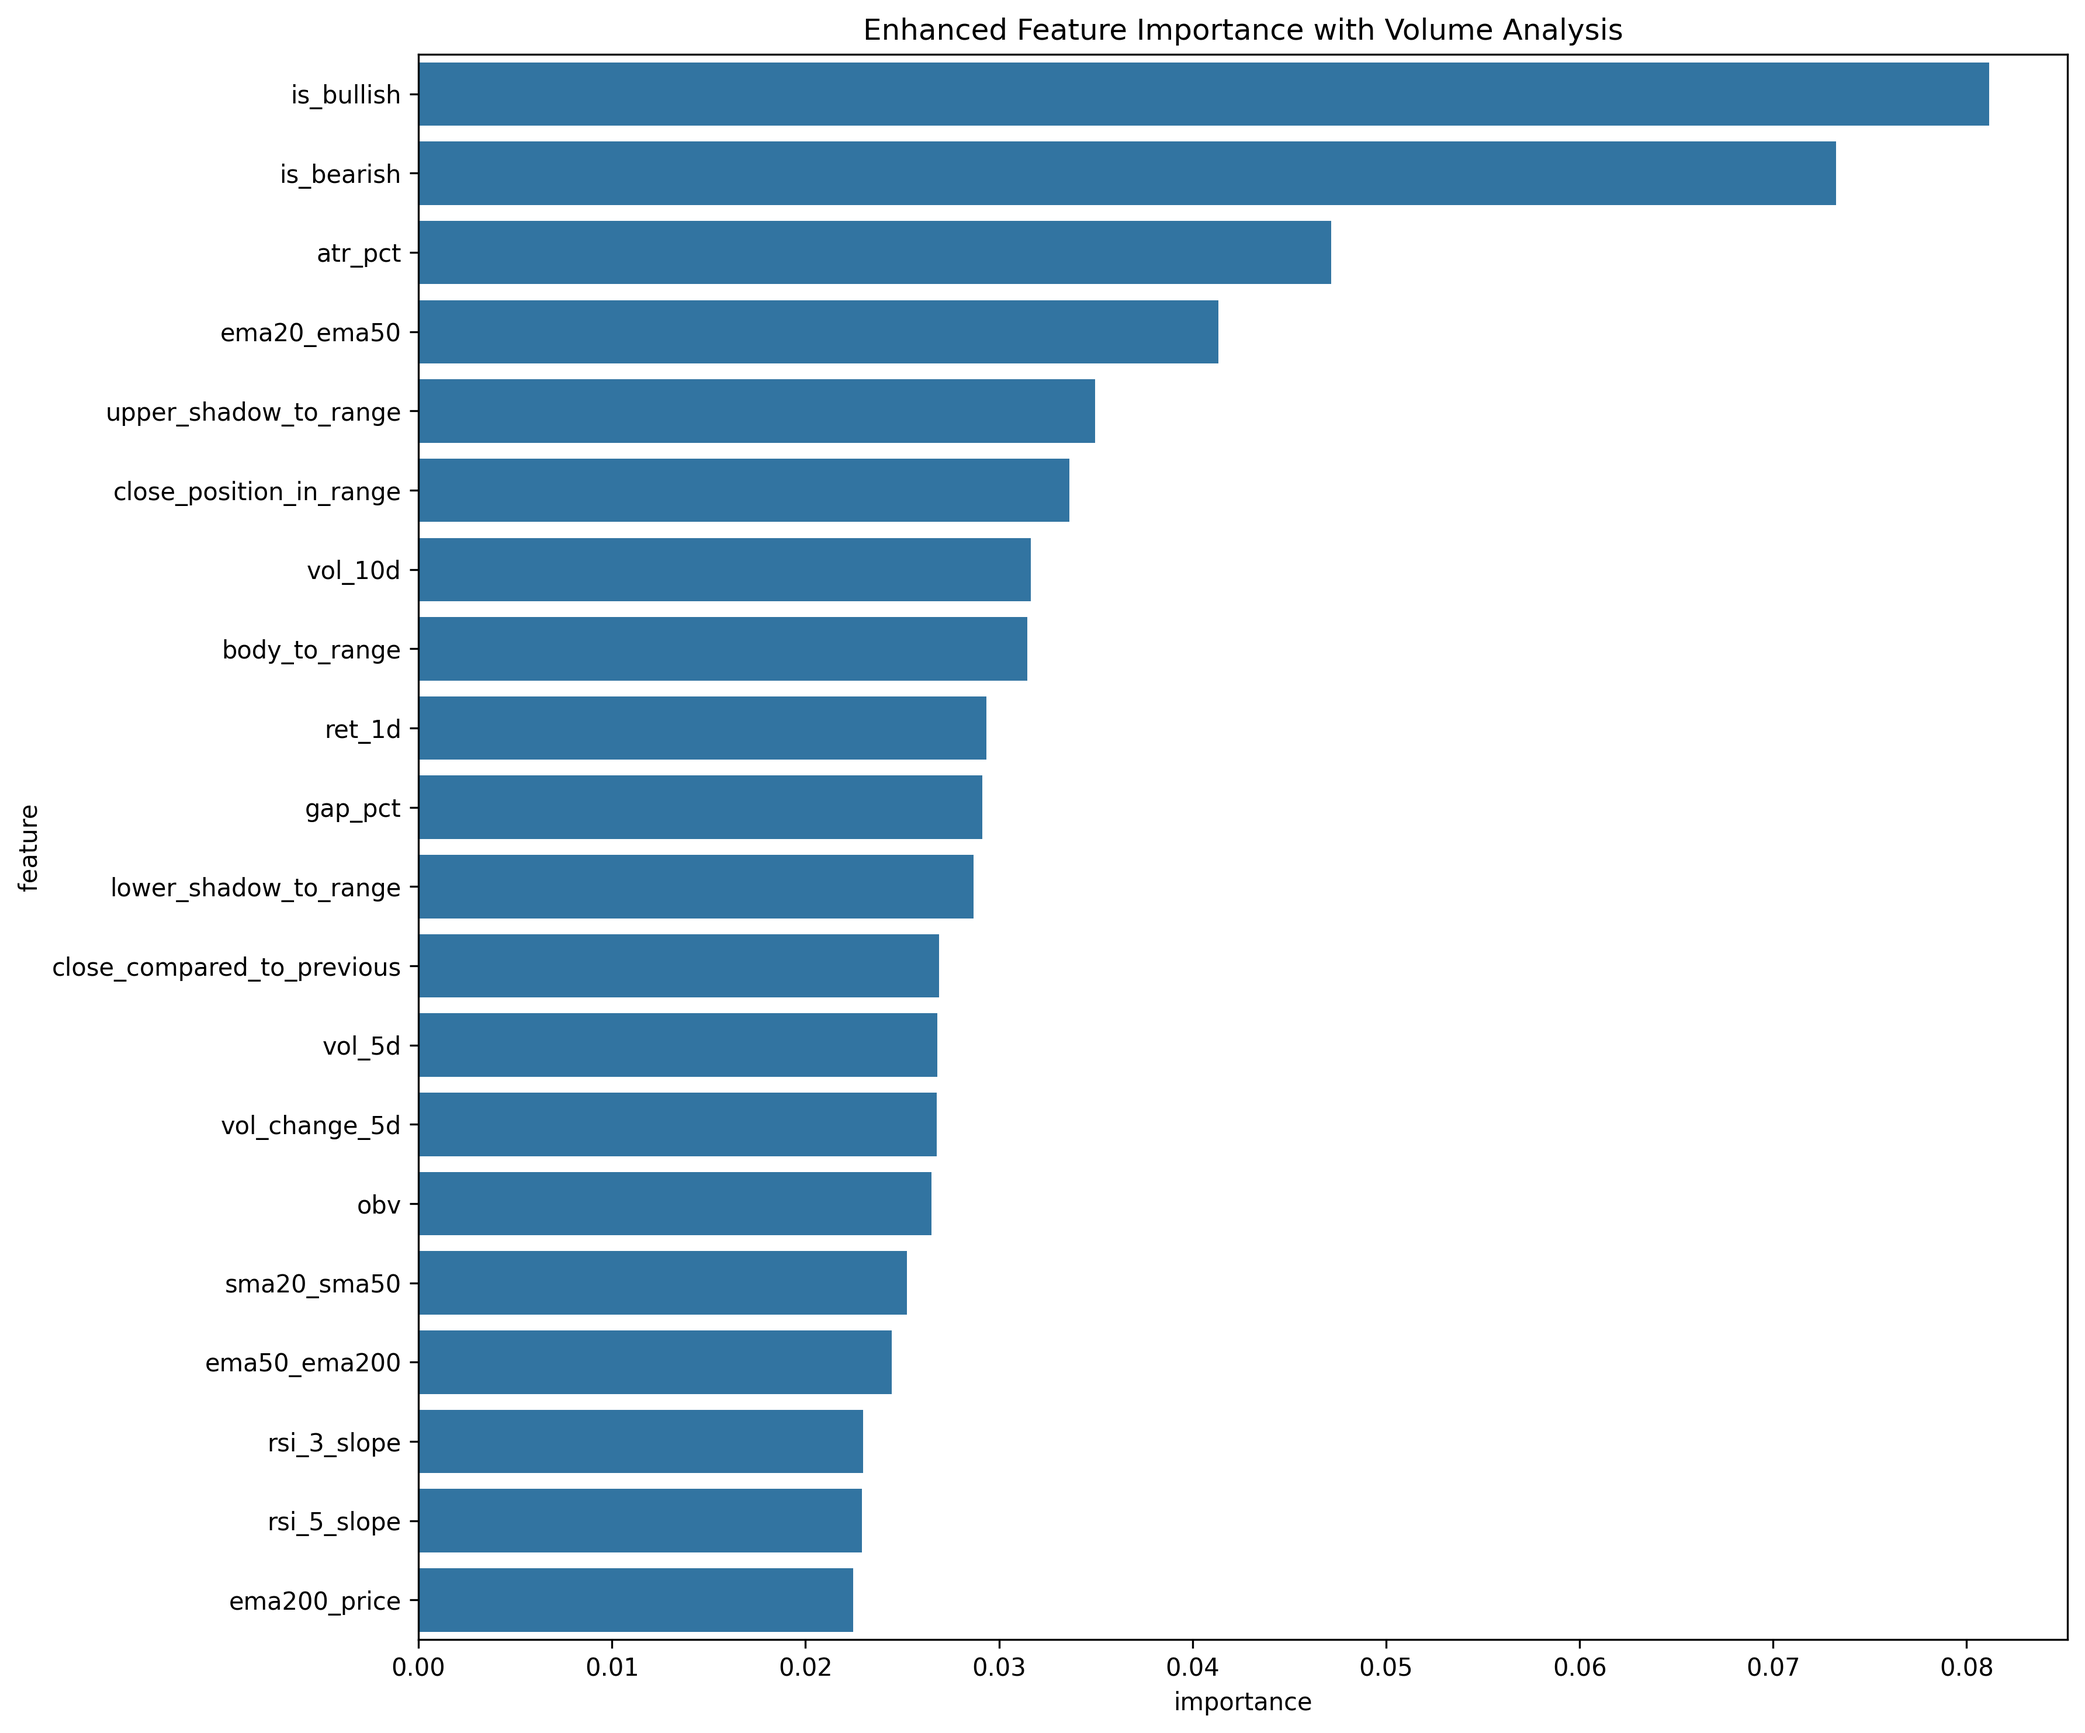
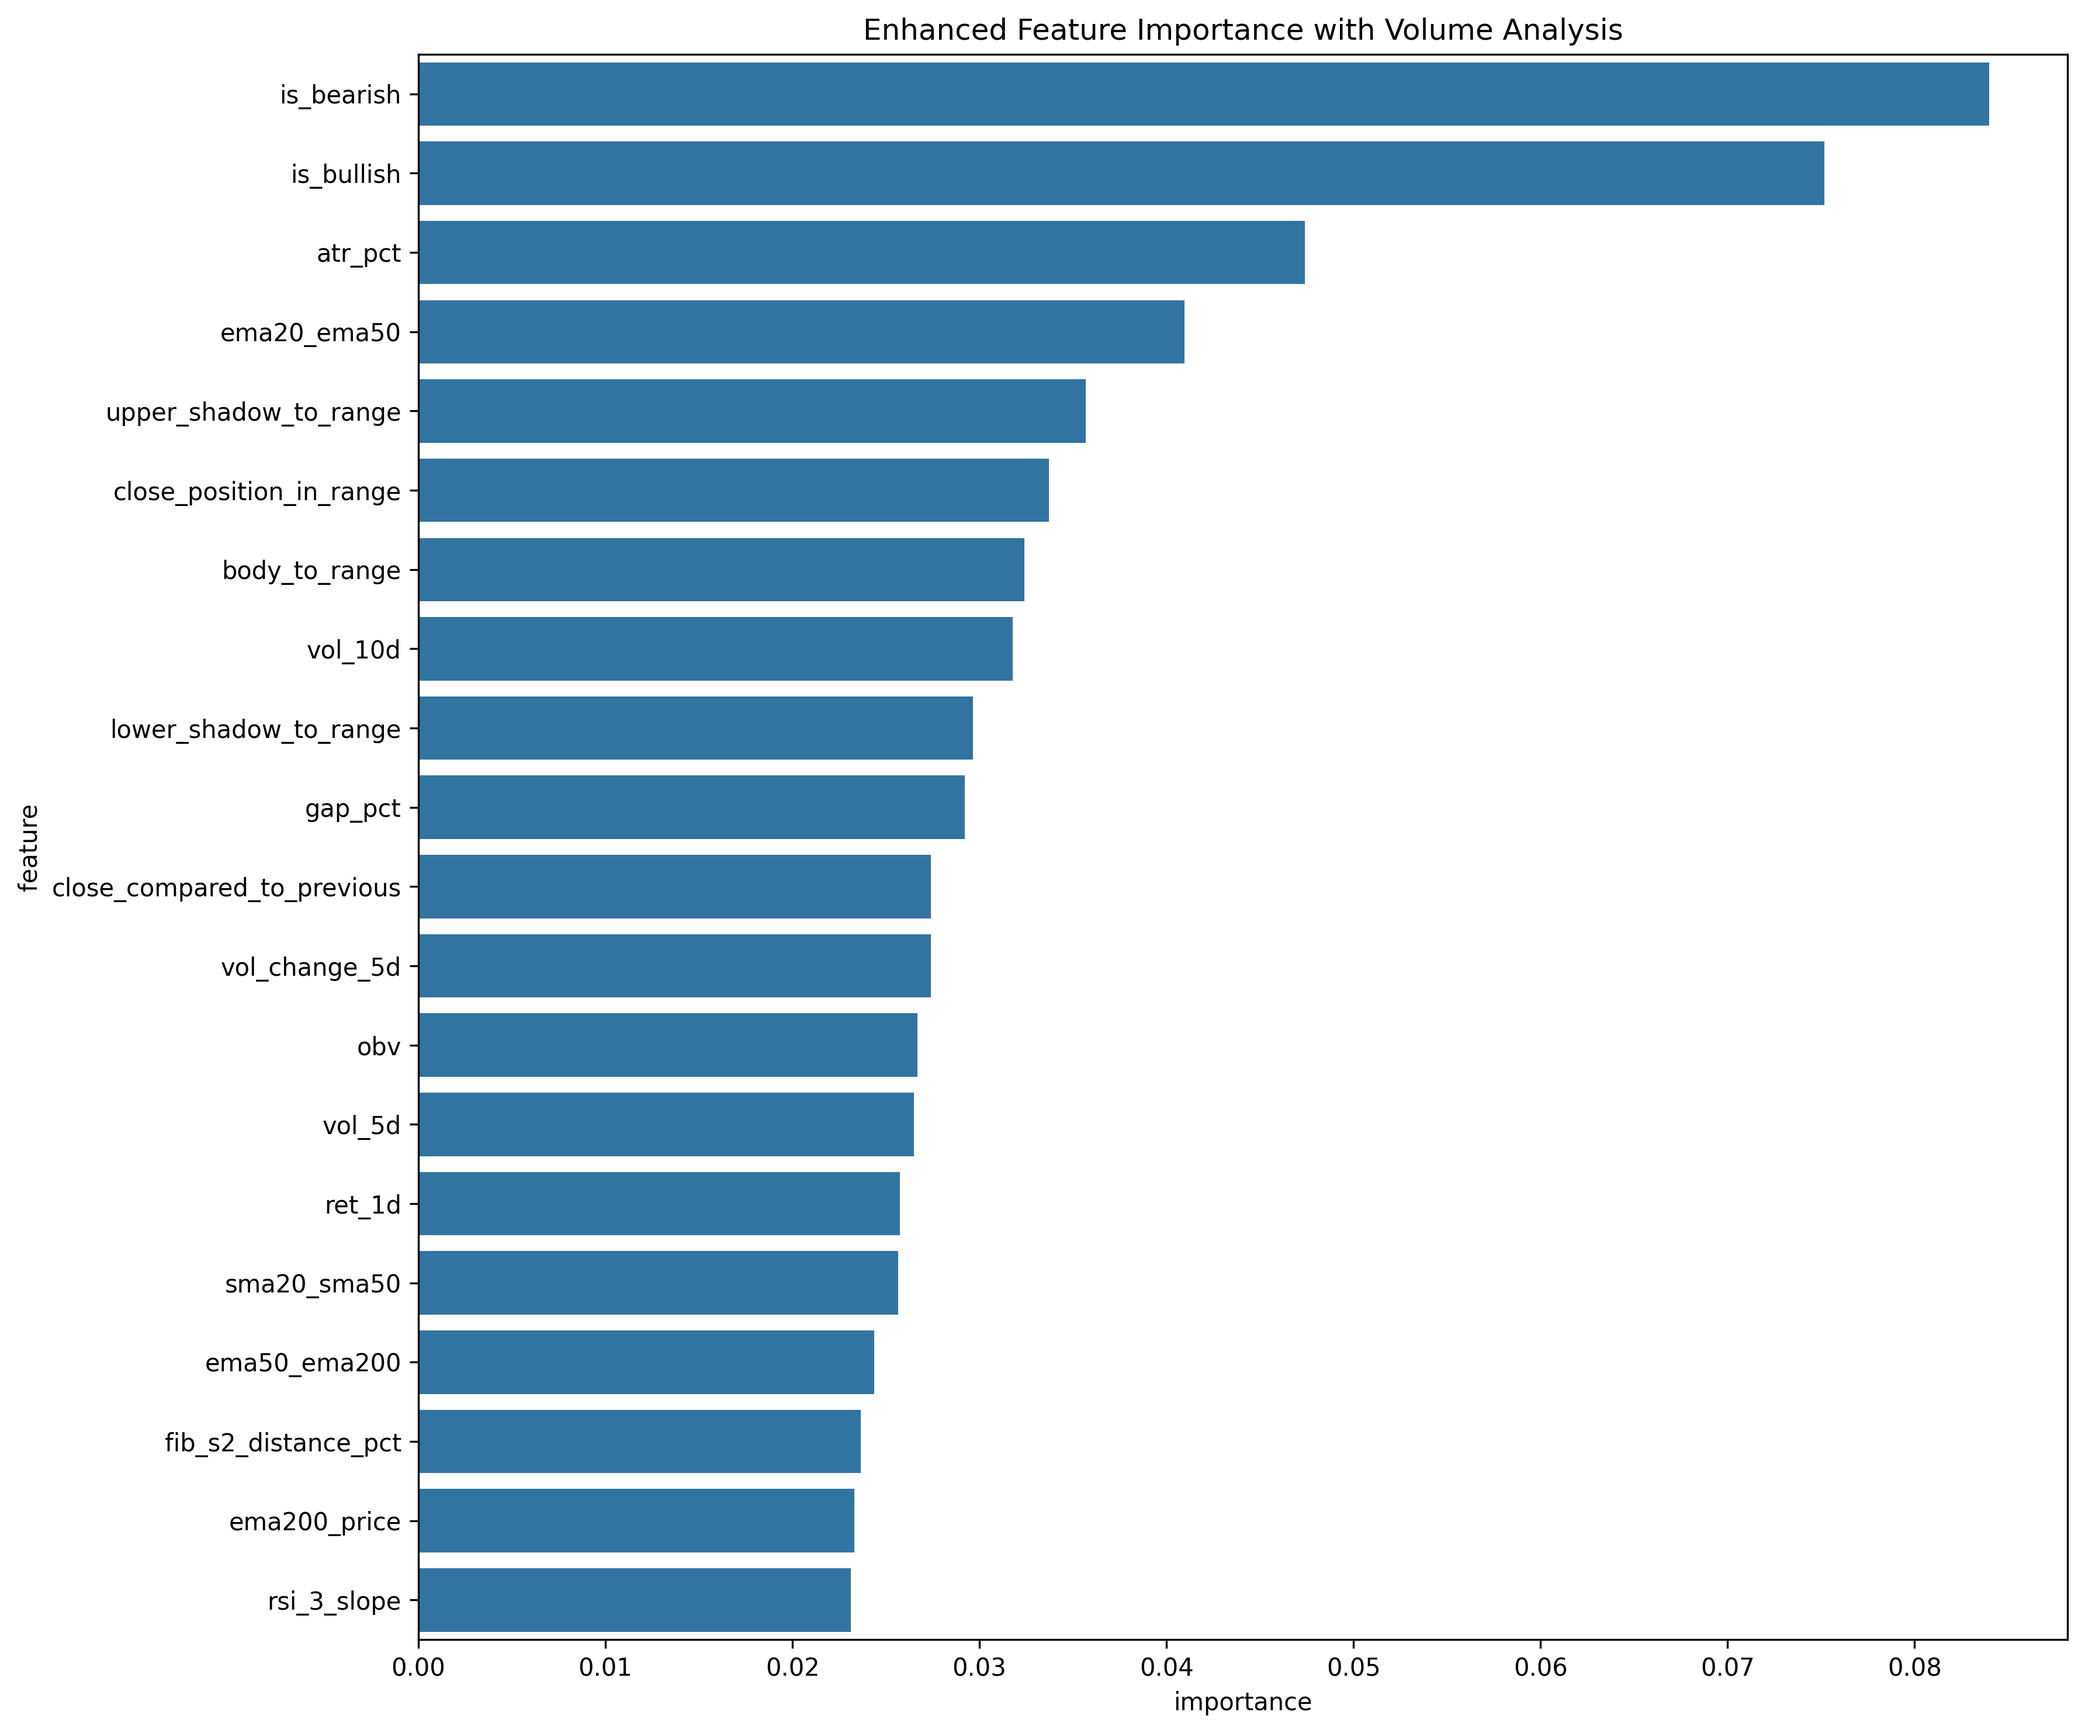
all

diff --git a/config.py b/config.py
@@ -43,21 +43,40 @@ MODEL_FILE = Path(f"models/{version}/enhanced_model_pipeline.pkl")
 LOG_FILE = Path("outputs/logs/system.log")
 
 #====Feature Columns====
+# FEATURE_COLUMNS = [
+#     'ema20_ema50',	'ema50_ema200',	'ema20_price',	'ema50_price',	'ema200_price',	'rsi',	'atr_pct',
+#     'obv',	'vol_change_5d', 'ret_1d',	'ret_3d',	'ret_5d',	'ret_10d', 'vol_5d',	
+#     'vol_10d',	'rsi_3_slope',	'rsi_5_slope',	'ema20_above_ema50', 'ema20_50_cross_up', 'ema20_50_cross_down',
+#     'close_position_in_range',	'gap_pct',	'fib_pivot_distance_pct',	'fib_r1_distance_pct',	'fib_r2_distance_pct',
+#     'fib_s1_distance_pct',	'fib_s2_distance_pct', 'is_bullish',	'is_bearish',	'body_to_range',	
+#     'upper_shadow_to_range',	'lower_shadow_to_range',	'is_doji',	'is_hammer',	'is_shooting_star',
+#     'close_compared_to_previous', 'bb_position', 'support_pct', 'resistance_pct', 'sma20_sma50', 'sma20_50_cross_up'
+# ]
+
 FEATURE_COLUMNS = [
     'ema20_ema50',	'ema50_ema200',	'ema20_price',	'ema50_price',	'ema200_price',	'rsi',	'atr_pct',
     'obv',	'vol_change_5d', 'ret_1d',	'ret_3d',	'ret_5d',	'ret_10d', 'vol_5d',	
-    'vol_10d',	'rsi_3_slope',	'rsi_5_slope',	'ema20_above_ema50', 'ema20_50_cross_up', 'ema20_50_cross_down',
+    'vol_10d',	'rsi_3_slope',	'rsi_5_slope',	'ema20_above_ema50', 
     'close_position_in_range',	'gap_pct',	'fib_pivot_distance_pct',	'fib_r1_distance_pct',	'fib_r2_distance_pct',
     'fib_s1_distance_pct',	'fib_s2_distance_pct', 'is_bullish',	'is_bearish',	'body_to_range',	
-    'upper_shadow_to_range',	'lower_shadow_to_range',	'is_doji',	'is_hammer',	'is_shooting_star',
-    'close_compared_to_previous', 'bb_position', 'support_pct', 'resistance_pct', 'sma20_sma50', 'sma20_50_cross_up'
+    'upper_shadow_to_range',	'lower_shadow_to_range',	
+    'close_compared_to_previous', 'bb_position', 'support_pct', 'resistance_pct', 'sma20_sma50', 
 ]
 
 
-# FEATURE_COLUMNS = [
-#    	'ema50_ema200',	'atr_pct', 'ema20_50_cross_up', 'ema20_50_cross_down', 'sma20_sma50', 'sma20_50_cross_up'
-# ]
+CONFIDENCE_THRESHOLD = 0.73
 
-CONFIDENCE_THRESHOLD = 0.75
+# old model
+# 0.7   452  30.5  -6
+# 0.72    300   19.84   -5.83
+
+
+# new model 
+# 0.7   409  23.82  -8.27
+# 0.72    303   21.98   -5.45
+# 0.73    253   18.77   -1.02
+# 0.75    145   15.67  -1.05
+# 0.76  145   13.81  -1.07
+# 0.77  75   9.14  -1.11
 
 

diff --git a/backtest_analysis.py b/backtest_analysis.py
@@ -1,0 +1,52 @@
+import pandas as pd
+
+# ==== File paths ====
+backtest_file = "backtest_df.xlsx"
+features_file = "feature_backtest.csv"
+output_file = "backtest_df_updated.csv"
+
+# ==== Read ====
+df_backtest = pd.read_excel(backtest_file, sheet_name="Sheet1")
+df_features = pd.read_csv(features_file)
+
+
+# ---- Rename matching key columns ----
+df_backtest.rename(columns={df_backtest.columns[1]: "date",
+                            df_backtest.columns[2]: "symbol"}, inplace=True)
+df_features.rename(columns={df_features.columns[7]: "date",
+                            df_features.columns[6]: "symbol"}, inplace=True)
+
+
+
+
+# # ---- Clean symbols ----
+# df_backtest["symbol"] = df_backtest["symbol"].astype(str).str.strip().str.upper()
+# df_features["symbol"] = df_features["symbol"].astype(str).str.strip().str.upper()
+
+# # ---- Convert dates to datetime (dayfirst for CSV) ----
+df_backtest["date"] = pd.to_datetime(df_backtest["date"], errors="coerce").dt.normalize()
+df_features["date"] = pd.to_datetime(df_features["date"], errors="coerce", dayfirst=True).dt.normalize()
+
+# print(df_backtest['date'],df_backtest['symbol'])
+# print(df_features['date'],df_features['symbol'])
+# # ---- Drop duplicates in features ----
+# df_features = df_features.drop_duplicates(subset=["date", "symbol"], keep="last")
+
+# # ---- Get columns I to BV (8 to 73 in 0-based indexing) ----
+cols_to_copy = df_features.columns[8:73]
+
+# # ---- Merge exact match ----
+df_merged = pd.merge(
+    df_backtest,
+    df_features[["date", "symbol"] + list(cols_to_copy)],
+    on=["date", "symbol"],
+    how="left"
+)
+
+# # ---- Place features starting from col N (index 13 in pandas) ----
+N_index = 13
+df_final = pd.concat([df_merged.iloc[:, :N_index], df_merged[cols_to_copy]], axis=1)
+
+# # ==== Save ====
+df_final.to_csv(output_file, index=False)
+print(f"✅ Updated file saved to {output_file}")

diff --git a/features/swing_utils.py b/features/swing_utils.py
@@ -75,7 +75,7 @@ def add_candle_features(df):
     
     df['close_compared_to_previous'] = (df['close']-df['close'].shift(1))/df['close']
     
-    df['strong_rejection'] = ((df['close_compared_to_previous']< Strong_Low_Close) | (df['close_compared_to_previous'] > Strong_High_Close)).astype(int)
+    df['strong_rejection'] = ((df['close_compared_to_previous']< Strong_Low_Close) | (df['close_compared_to_previous'] > Strong_High_Close) ).astype(int)
     
     # Advanced patterns
     # df = add_advanced_candle_patterns(df)
